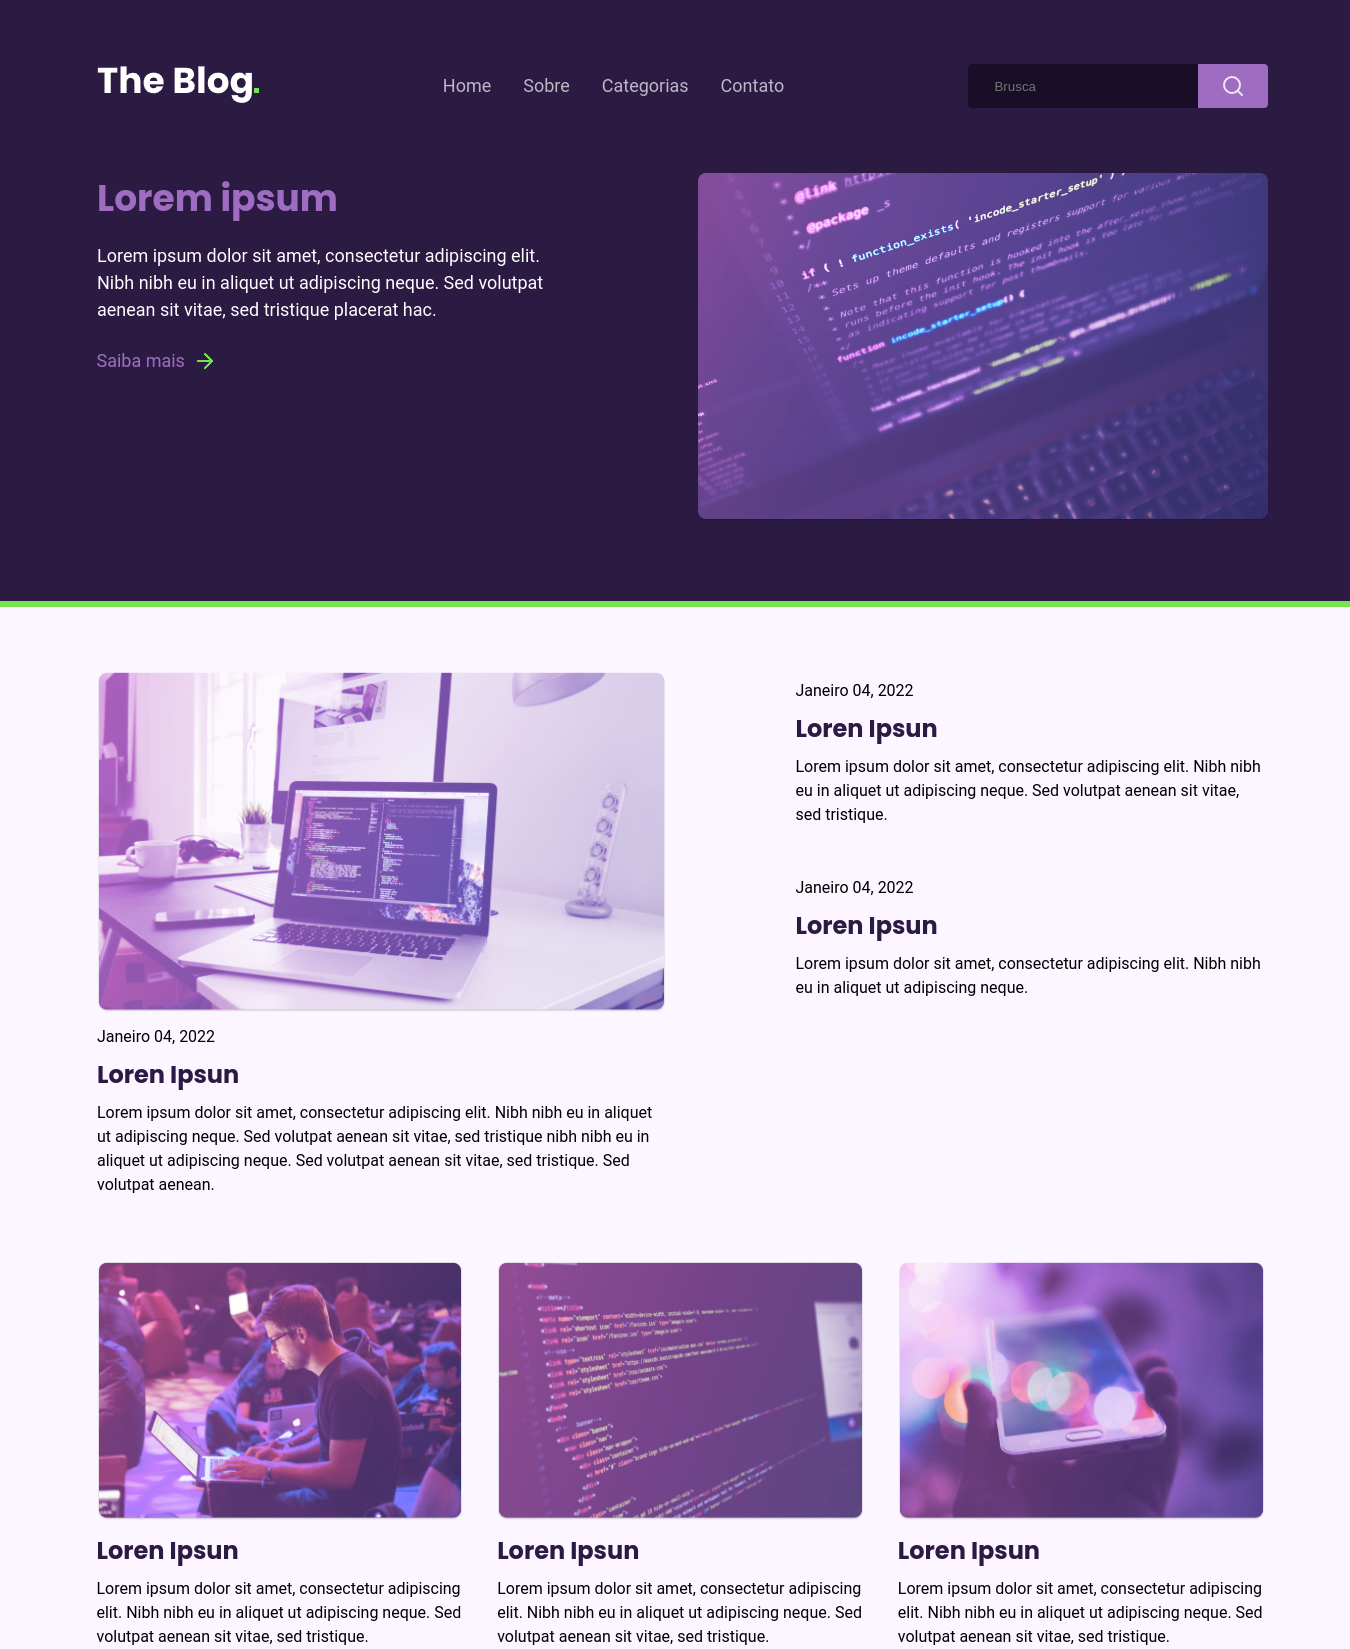
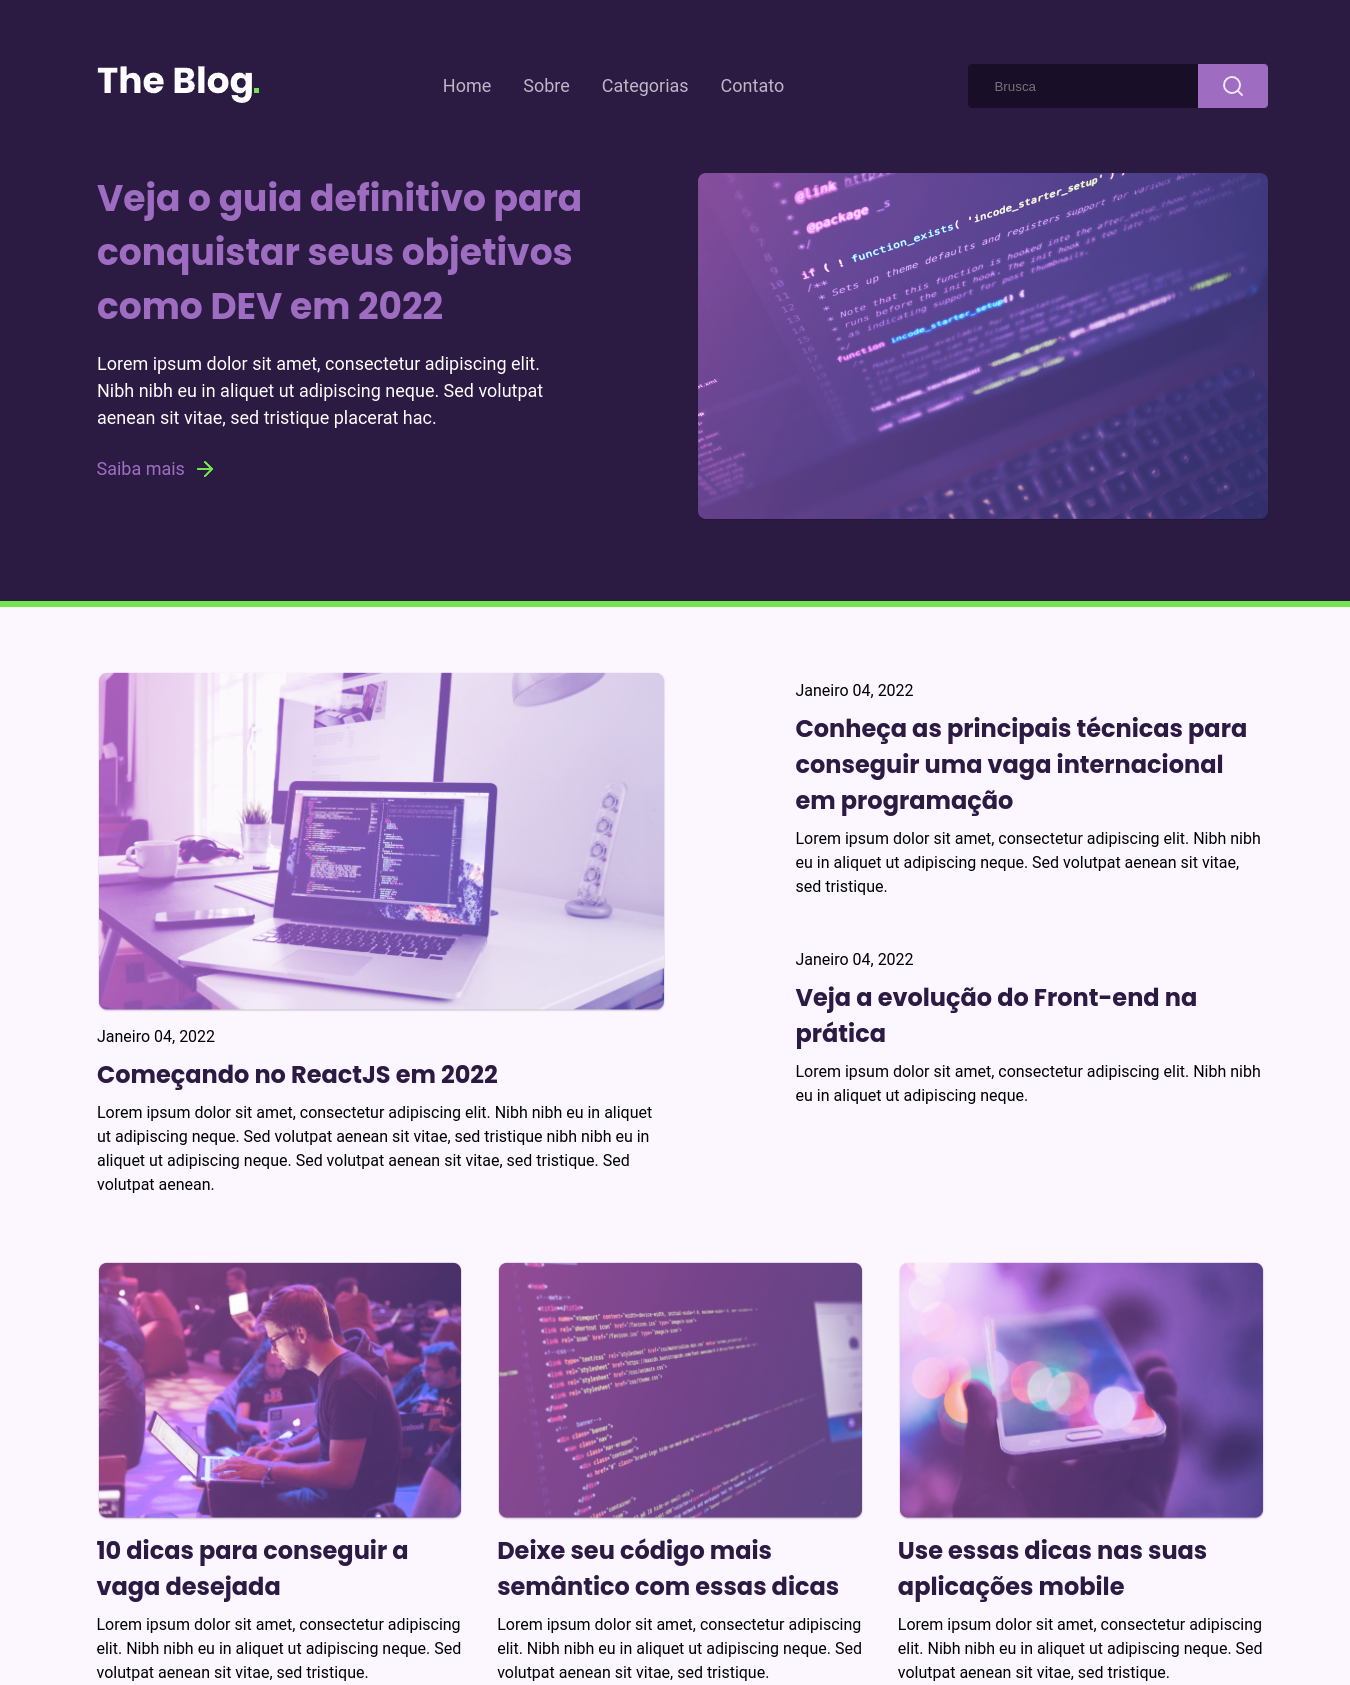
updat e

diff --git a/index.html b/index.html
@@ -41,7 +41,8 @@
           <div class="col-a">
             <div class="description">
               <h2>
-                Lorem ipsum 
+                Veja o guia definitivo para conquistar seus objetivos como DEV
+                em 2022
               </h2>
               <p>
                 Lorem ipsum dolor sit amet, consectetur adipiscing elit. Nibh
@@ -70,7 +71,7 @@
             <img src="./assets/post-1.png" alt="" />
             <p class="data">Janeiro 04, 2022</p>
 
-            <h4>Loren Ipsun</h4>
+            <h4>Começando no ReactJS em 2022</h4>
             <p>
               Lorem ipsum dolor sit amet, consectetur adipiscing elit. Nibh nibh
               eu in aliquet ut adipiscing neque. Sed volutpat aenean sit vitae,
@@ -86,7 +87,8 @@
               <div class="side-post">
                 <p class="data">Janeiro 04, 2022</p>
                 <h4>
-                  Loren Ipsun
+                  Conheça as principais técnicas para conseguir uma vaga
+                  internacional em programação
                 </h4>
                 <p>
                   Lorem ipsum dolor sit amet, consectetur adipiscing elit. Nibh
@@ -96,7 +98,7 @@
               </div>
               <div class="side-post2">
                 <p class="data">Janeiro 04, 2022</p>
-                <h4>Loren Ipsun</h4>
+                <h4>Veja a evolução do Front-end na prática</h4>
                 <p>
                   Lorem ipsum dolor sit amet, consectetur adipiscing elit. Nibh
                   nibh eu in aliquet ut adipiscing neque.
@@ -112,7 +114,7 @@
       <div class="posts">
         <div class="post">
           <img src="./assets/post-2.png" alt="" />
-          <h4>Loren Ipsun</h4>
+          <h4>10 dicas para conseguir a vaga desejada</h4>
           <p>
             Lorem ipsum dolor sit amet, consectetur adipiscing elit. Nibh nibh
             eu in aliquet ut adipiscing neque. Sed volutpat aenean sit vitae,
@@ -122,7 +124,7 @@
 
         <div class="post">
           <img src="./assets/post-3.png" alt="" />
-          <h4>Loren Ipsun</h4>
+          <h4>Deixe seu código mais semântico com essas dicas</h4>
           <p>
             Lorem ipsum dolor sit amet, consectetur adipiscing elit. Nibh nibh
             eu in aliquet ut adipiscing neque. Sed volutpat aenean sit vitae,
@@ -132,7 +134,7 @@
 
         <div class="post">
           <img src="./assets/post-4.png" alt="" />
-          <h4>Loren Ipsun</h4>
+          <h4>Use essas dicas nas suas aplicações mobile</h4>
           <p>
             Lorem ipsum dolor sit amet, consectetur adipiscing elit. Nibh nibh
             eu in aliquet ut adipiscing neque. Sed volutpat aenean sit vitae,

diff --git a/README.md b/README.md
@@ -6,7 +6,7 @@
 
 Projeto construído do desafio da plataforma Rocketseat.
 
-[🔗Clique aqui para acessar](https://pedrosantiagodev.github.io/Desafio-RocketBlog/)
+[🔗Clique aqui para acessar](https://pedrosantiagodev.github.io/Desafios-RocketBlog/)
 
 ## 🚀Tecnologias
 
